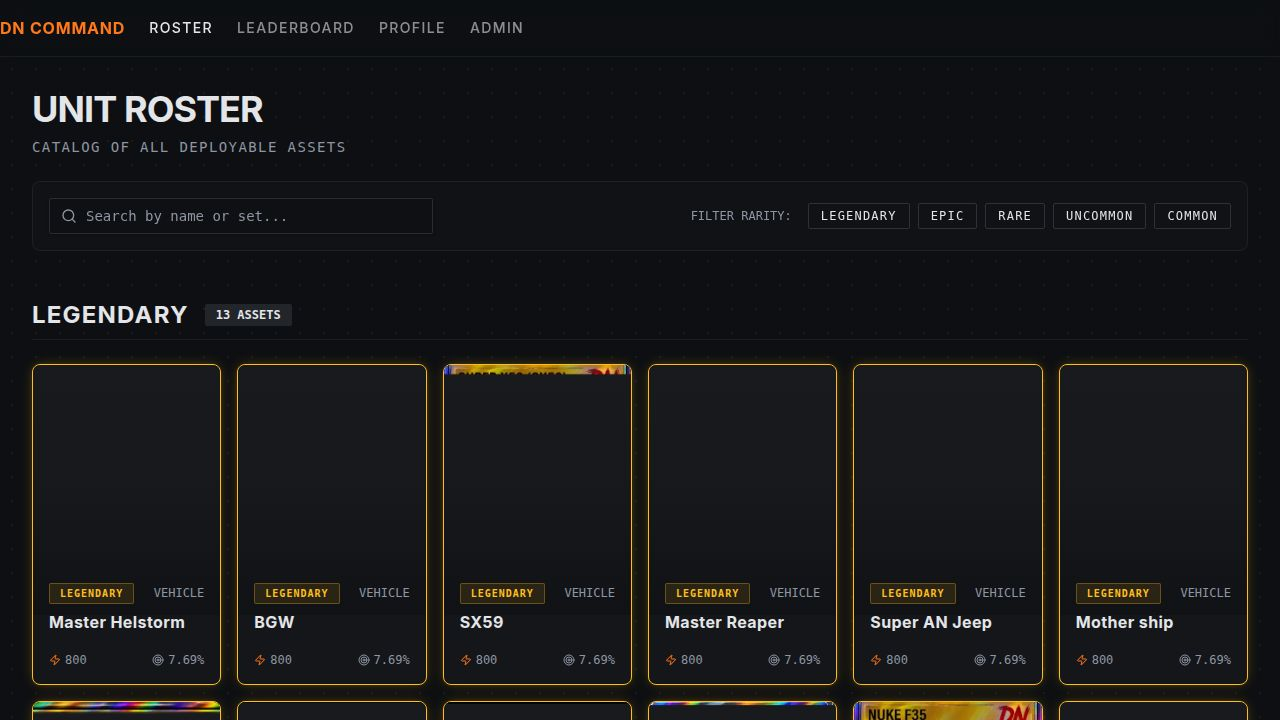
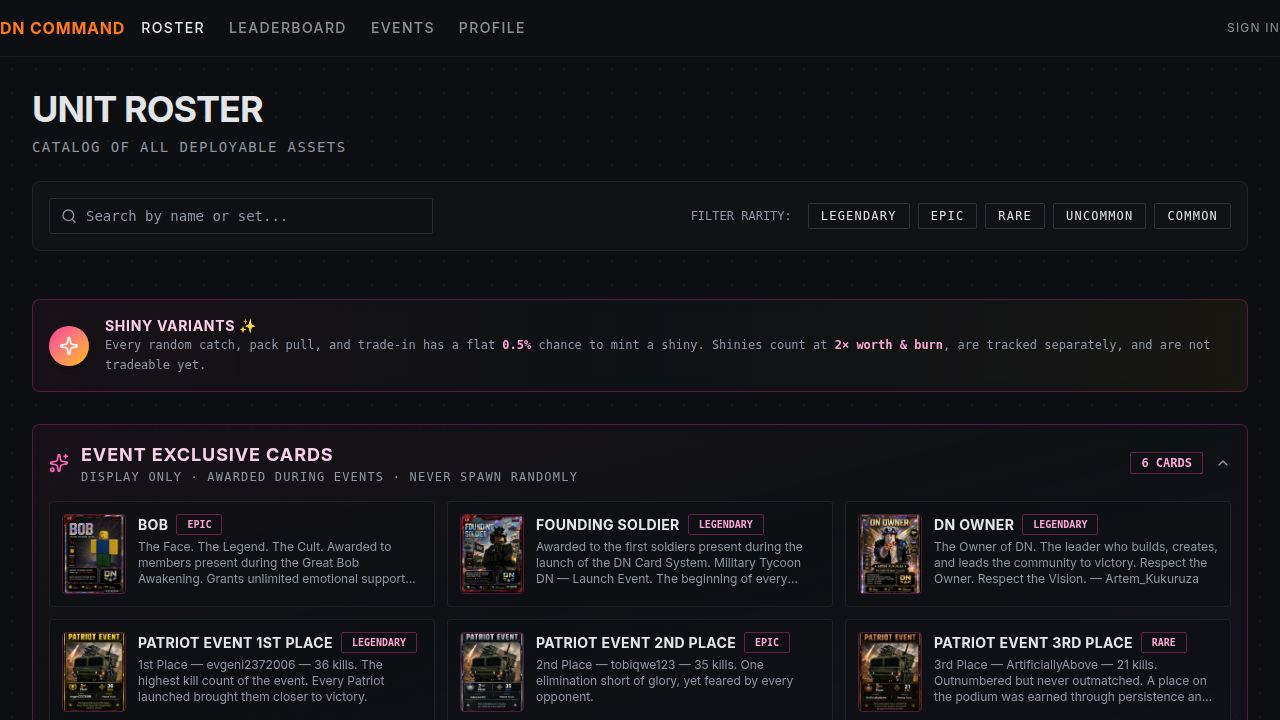
Add a dedicated page to showcase event cards and their details
Integrates a new `/events` route and `Events` page component, adding navigation links in `layout.tsx` and `App.tsx`. The `events.tsx` file introduces components for displaying event cards with rarity-based styling, detail popups, and a special podium layout for top placements.

Replit-Commit-Author: Agent
Replit-Commit-Session-Id: e307e65c-592e-453e-9cbe-cb89dff20171
Replit-Commit-Checkpoint-Type: full_checkpoint
Replit-Commit-Event-Id: 9393fd1e-eb54-4350-bba3-a9c169e8ca7e
Replit-Commit-Screenshot-Url: https://storage.googleapis.com/screenshot-production-us-central1/c561a2fd-6d8e-4845-9d37-375347cae09a/e307e65c-592e-453e-9cbe-cb89dff20171/snh6F7M
Replit-Helium-Checkpoint-Created: true

diff --git a/artifacts/dashboard/src/pages/events.tsx b/artifacts/dashboard/src/pages/events.tsx
@@ -1,0 +1,363 @@
+import { useMemo, useState } from "react";
+import { useCards, Card } from "@/hooks/queries";
+import { resolveImageUrl } from "@/lib/api";
+import { Badge } from "@/components/ui/badge";
+import { Dialog, DialogContent } from "@/components/ui/dialog";
+import { Loader2, Sparkles, Trophy, Shield, Star } from "lucide-react";
+import { motion } from "framer-motion";
+
+const RARITY_GLOW: Record<string, string> = {
+  legendary: "shadow-[0_0_32px_4px_rgba(234,179,8,0.35)] border-yellow-500/60",
+  epic:      "shadow-[0_0_24px_2px_rgba(168,85,247,0.35)] border-purple-500/60",
+  rare:      "shadow-[0_0_16px_2px_rgba(59,130,246,0.30)] border-blue-500/60",
+  uncommon:  "shadow-[0_0_8px_1px_rgba(34,197,94,0.20)] border-green-500/40",
+  common:    "border-border/50",
+};
+
+const RARITY_BADGE: Record<string, string> = {
+  legendary: "border-yellow-500/50 text-yellow-400 bg-yellow-500/10",
+  epic:      "border-purple-500/50 text-purple-400 bg-purple-500/10",
+  rare:      "border-blue-500/50 text-blue-400 bg-blue-500/10",
+  uncommon:  "border-green-500/50 text-green-400 bg-green-500/10",
+  common:    "border-border text-muted-foreground",
+};
+
+const PLACE_STYLES: Record<number, { border: string; glow: string; label: string; icon: React.ReactNode }> = {
+  1: {
+    border: "border-yellow-400/80 shadow-[0_0_40px_8px_rgba(234,179,8,0.40)]",
+    glow: "from-yellow-500/20 via-transparent",
+    label: "1st Place",
+    icon: <Trophy className="h-5 w-5 text-yellow-400" />,
+  },
+  2: {
+    border: "border-slate-300/70 shadow-[0_0_30px_4px_rgba(148,163,184,0.30)]",
+    glow: "from-slate-400/15 via-transparent",
+    label: "2nd Place",
+    icon: <Shield className="h-5 w-5 text-slate-300" />,
+  },
+  3: {
+    border: "border-amber-700/70 shadow-[0_0_24px_2px_rgba(180,83,9,0.30)]",
+    glow: "from-amber-700/15 via-transparent",
+    label: "3rd Place",
+    icon: <Star className="h-5 w-5 text-amber-600" />,
+  },
+};
+
+function placeFromName(name: string): number | null {
+  if (/1st/i.test(name)) return 1;
+  if (/2nd/i.test(name)) return 2;
+  if (/3rd/i.test(name)) return 3;
+  return null;
+}
+
+function EventCardDetail({ card, open, onClose }: {
+  card: { id: number; name: string; description: string; rarity: string; cardType: string; imageUrl: string | null; flavor: string | null; worthValue: number; isLimitedEdition: boolean; totalMinted: number; maxCopies: number | null } | null;
+  open: boolean;
+  onClose: () => void;
+}) {
+  if (!card) return null;
+  const img = resolveImageUrl(card.imageUrl);
+  return (
+    <Dialog open={open} onOpenChange={v => !v && onClose()}>
+      <DialogContent className="max-w-lg p-0 overflow-hidden bg-card/95 backdrop-blur-md border-border/50">
+        <div className="flex flex-col">
+          {img && (
+            <div className="relative w-full aspect-[3/4] max-h-[60vh] bg-muted overflow-hidden">
+              <img src={img} alt={card.name} className="h-full w-full object-contain" />
+              <div className="absolute inset-0 bg-gradient-to-t from-background/80 via-transparent to-transparent" />
+              {card.isLimitedEdition && (
+                <div className="absolute top-3 left-3">
+                  <Badge className="bg-background/90 text-primary border-primary font-mono text-xs">
+                    LIMITED · {card.totalMinted}{card.maxCopies ? `/${card.maxCopies}` : ""} MINTED
+                  </Badge>
+                </div>
+              )}
+            </div>
+          )}
+          <div className="p-6 space-y-4">
+            <div className="flex items-center gap-2 flex-wrap">
+              <Badge variant="outline" className={`text-xs font-mono uppercase tracking-widest ${RARITY_BADGE[card.rarity]}`}>
+                {card.rarity}
+              </Badge>
+              <Badge variant="outline" className="text-xs font-mono uppercase tracking-widest">
+                {card.cardType}
+              </Badge>
+              <Badge variant="outline" className="text-xs font-mono uppercase tracking-widest border-destructive/50 text-destructive">
+                Event
+              </Badge>
+            </div>
+            <h2 className="text-2xl font-bold tracking-wider">{card.name}</h2>
+            {card.flavor ? (
+              <div className="border-l-2 border-primary/50 pl-4 py-1">
+                <p className="text-sm italic text-foreground/80 leading-relaxed">"{card.flavor}"</p>
+              </div>
+            ) : (
+              <p className="text-sm text-muted-foreground leading-relaxed">{card.description}</p>
+            )}
+            <div className="text-xs font-mono text-muted-foreground uppercase tracking-widest">
+              Worth: {card.worthValue.toLocaleString()} 💠
+            </div>
+          </div>
+        </div>
+      </DialogContent>
+    </Dialog>
+  );
+}
+
+export default function Events() {
+  const { data, isLoading, error } = useCards();
+  const [selected, setSelected] = useState<(typeof eventCards)[0] | null>(null);
+
+  const eventCards = useMemo(
+    () => (data?.cards ?? []).filter(c => c.isEventExclusive && !c.isArchived),
+    [data],
+  );
+
+  // Split into podium cards (1st/2nd/3rd) and general event cards
+  const podiumMap = useMemo(() => {
+    const map: Record<number, typeof eventCards[0]> = {};
+    for (const c of eventCards) {
+      const p = placeFromName(c.name);
+      if (p) map[p] = c;
+    }
+    return map;
+  }, [eventCards]);
+
+  const hasPodium = Object.keys(podiumMap).length > 0;
+  const nonPodiumCards = useMemo(
+    () => eventCards.filter(c => placeFromName(c.name) === null),
+    [eventCards],
+  );
+
+  if (isLoading) {
+    return (
+      <div className="flex h-[50vh] items-center justify-center">
+        <Loader2 className="h-8 w-8 animate-spin text-primary" />
+      </div>
+    );
+  }
+
+  if (error) {
+    return (
+      <div className="flex h-[50vh] flex-col items-center justify-center text-center">
+        <p className="text-destructive font-mono uppercase tracking-widest mb-2">Error loading event cards</p>
+      </div>
+    );
+  }
+
+  if (eventCards.length === 0) {
+    return (
+      <div className="container max-w-screen-2xl py-20 px-4 text-center">
+        <Sparkles className="h-12 w-12 text-muted-foreground mx-auto mb-4 opacity-40" />
+        <h1 className="text-3xl font-bold uppercase tracking-tight mb-2">No Event Cards Yet</h1>
+        <p className="text-muted-foreground font-mono text-sm">Event cards are awarded by admins during special events. Check back soon.</p>
+      </div>
+    );
+  }
+
+  return (
+    <div className="min-h-screen bg-background">
+      {/* Hero */}
+      <div className="relative overflow-hidden border-b border-border/40 bg-gradient-to-br from-background via-background to-purple-950/20">
+        <div className="absolute inset-0 bg-[radial-gradient(ellipse_at_top,rgba(168,85,247,0.08),transparent_60%)]" />
+        <div className="container max-w-screen-2xl px-4 py-16 relative">
+          <div className="flex items-center gap-3 mb-3">
+            <Sparkles className="h-7 w-7 text-purple-400" />
+            <span className="text-xs font-mono uppercase tracking-[0.3em] text-purple-400">Exclusive Collection</span>
+          </div>
+          <h1 className="text-5xl md:text-6xl font-black uppercase tracking-tight text-foreground mb-3">
+            Event Cards
+          </h1>
+          <p className="text-muted-foreground font-mono text-sm max-w-xl">
+            Awarded to members during special events and milestones. These cards never spawn randomly — they're earned.
+          </p>
+          <div className="mt-6 flex items-center gap-3">
+            <Badge variant="outline" className="border-purple-500/40 text-purple-300 font-mono text-sm px-4 py-1">
+              {eventCards.length} {eventCards.length === 1 ? "card" : "cards"}
+            </Badge>
+          </div>
+        </div>
+      </div>
+
+      <div className="container max-w-screen-2xl px-4 py-12 space-y-16">
+
+        {/* Podium section */}
+        {hasPodium && (
+          <section>
+            <div className="flex items-center gap-3 mb-8 border-b border-border/40 pb-3">
+              <Trophy className="h-5 w-5 text-yellow-400" />
+              <h2 className="text-xl font-bold uppercase tracking-wider">Event Leaderboard Cards</h2>
+            </div>
+            <div className="flex flex-col md:flex-row items-end justify-center gap-6">
+              {/* 2nd place — left, slightly shorter */}
+              {podiumMap[2] && (
+                <PodiumCard card={podiumMap[2]} place={2} onClick={() => setSelected(podiumMap[2])} />
+              )}
+              {/* 1st place — center, tallest */}
+              {podiumMap[1] && (
+                <PodiumCard card={podiumMap[1]} place={1} onClick={() => setSelected(podiumMap[1])} featured />
+              )}
+              {/* 3rd place — right, shortest */}
+              {podiumMap[3] && (
+                <PodiumCard card={podiumMap[3]} place={3} onClick={() => setSelected(podiumMap[3])} />
+              )}
+            </div>
+          </section>
+        )}
+
+        {/* General event cards */}
+        {nonPodiumCards.length > 0 && (
+          <section>
+            {hasPodium && (
+              <div className="flex items-center gap-3 mb-8 border-b border-border/40 pb-3">
+                <Sparkles className="h-5 w-5 text-purple-400" />
+                <h2 className="text-xl font-bold uppercase tracking-wider">Special Event Cards</h2>
+              </div>
+            )}
+            <div className="grid grid-cols-1 gap-8 sm:grid-cols-2 lg:grid-cols-3 xl:grid-cols-4">
+              {nonPodiumCards.map((card, idx) => (
+                <ShowcaseCard key={card.id} card={card} idx={idx} onClick={() => setSelected(card)} />
+              ))}
+            </div>
+          </section>
+        )}
+      </div>
+
+      <EventCardDetail
+        card={selected}
+        open={!!selected}
+        onClose={() => setSelected(null)}
+      />
+    </div>
+  );
+}
+
+function PodiumCard({
+  card, place, onClick, featured = false,
+}: {
+  card: Card;
+  place: number;
+  onClick: () => void;
+  featured?: boolean;
+}) {
+  const style = PLACE_STYLES[place] ?? PLACE_STYLES[3];
+  const img = resolveImageUrl(card.imageUrl);
+
+  return (
+    <motion.div
+      initial={{ opacity: 0, y: 30 }}
+      animate={{ opacity: 1, y: 0 }}
+      transition={{ delay: place === 1 ? 0 : place === 2 ? 0.1 : 0.2 }}
+      onClick={onClick}
+      className={`relative cursor-pointer rounded-2xl border-2 bg-card overflow-hidden transition-all duration-300 hover:-translate-y-2 hover:shadow-2xl ${style.border} ${featured ? "w-full md:w-72 md:-mb-0" : "w-full md:w-60 md:mb-8"}`}
+    >
+      <div className={`absolute inset-0 bg-gradient-to-b ${style.glow} to-transparent opacity-60 pointer-events-none`} />
+
+      {/* Place badge */}
+      <div className="absolute top-3 left-3 z-10 flex items-center gap-1.5 rounded-full bg-background/80 backdrop-blur px-3 py-1 border border-border/40">
+        {style.icon}
+        <span className="text-xs font-bold font-mono uppercase tracking-wider">{style.label}</span>
+      </div>
+
+      {/* Card image */}
+      <div className={`relative ${featured ? "aspect-[3/4]" : "aspect-[3/4]"} w-full bg-muted overflow-hidden`}>
+        {img ? (
+          <img src={img} alt={card.name} className="h-full w-full object-cover transition-transform duration-500 hover:scale-105" />
+        ) : (
+          <div className="flex h-full w-full items-center justify-center text-muted-foreground font-mono uppercase text-sm">
+            {card.name}
+          </div>
+        )}
+        <div className="absolute inset-0 bg-gradient-to-t from-background/90 via-background/10 to-transparent" />
+      </div>
+
+      {/* Info overlay */}
+      <div className="relative p-4 -mt-10 z-10">
+        <div className="flex items-center gap-2 mb-1 flex-wrap">
+          <Badge variant="outline" className={`text-[10px] font-mono uppercase tracking-widest ${RARITY_BADGE[card.rarity]}`}>
+            {card.rarity}
+          </Badge>
+          <Badge variant="outline" className="text-[10px] font-mono uppercase tracking-widest border-destructive/40 text-destructive">
+            Event
+          </Badge>
+        </div>
+        <h3 className="font-bold tracking-wide text-foreground leading-tight">{card.name}</h3>
+        {(card.flavor || card.description) && (
+          <p className="text-xs text-muted-foreground mt-2 line-clamp-2 leading-relaxed">
+            {card.flavor ? `"${card.flavor}"` : card.description}
+          </p>
+        )}
+        <div className="mt-3 text-xs font-mono text-muted-foreground">
+          {card.worthValue.toLocaleString()} 💠
+        </div>
+      </div>
+    </motion.div>
+  );
+}
+
+function ShowcaseCard({
+  card, idx, onClick,
+}: {
+  card: Card;
+  idx: number;
+  onClick: () => void;
+}) {
+  const img = resolveImageUrl(card.imageUrl);
+  const glow = RARITY_GLOW[card.rarity] ?? RARITY_GLOW.common;
+
+  return (
+    <motion.div
+      initial={{ opacity: 0, y: 24 }}
+      animate={{ opacity: 1, y: 0 }}
+      transition={{ delay: idx * 0.08 }}
+      onClick={onClick}
+      className={`group relative cursor-pointer rounded-2xl border-2 bg-card overflow-hidden transition-all duration-300 hover:-translate-y-2 ${glow}`}
+    >
+      {/* Card image — portrait fill */}
+      <div className="relative aspect-[3/4] w-full bg-muted overflow-hidden">
+        {img ? (
+          <img
+            src={img}
+            alt={card.name}
+            className="h-full w-full object-cover transition-transform duration-500 group-hover:scale-105"
+          />
+        ) : (
+          <div className="flex h-full w-full items-center justify-center p-6 text-center text-muted-foreground font-mono uppercase text-sm">
+            {card.name}
+          </div>
+        )}
+        <div className="absolute inset-0 bg-gradient-to-t from-background/95 via-background/20 to-transparent" />
+
+        {/* Badges */}
+        <div className="absolute top-3 left-3 flex flex-col gap-1">
+          {card.isLimitedEdition && (
+            <Badge variant="outline" className="bg-background/80 text-[10px] uppercase border-primary/50 text-primary font-mono backdrop-blur-sm">
+              LE {card.totalMinted}{card.maxCopies ? `/${card.maxCopies}` : ""}
+            </Badge>
+          )}
+          <Badge variant="outline" className="bg-background/80 text-[10px] uppercase border-destructive/50 text-destructive font-mono backdrop-blur-sm">
+            Event
+          </Badge>
+        </div>
+      </div>
+
+      {/* Info */}
+      <div className="relative p-5 -mt-14 z-10">
+        <div className="flex items-center gap-2 mb-2 flex-wrap">
+          <Badge variant="outline" className={`text-[10px] font-mono uppercase tracking-widest ${RARITY_BADGE[card.rarity]}`}>
+            {card.rarity}
+          </Badge>
+        </div>
+        <h3 className="text-base font-bold tracking-wide text-foreground leading-tight mb-2">{card.name}</h3>
+        {(card.flavor || card.description) && (
+          <p className="text-xs text-muted-foreground line-clamp-3 leading-relaxed">
+            {card.flavor ? <span className="italic">"{card.flavor}"</span> : card.description}
+          </p>
+        )}
+        <div className="mt-4 text-xs font-mono text-muted-foreground">
+          {card.worthValue.toLocaleString()} 💠
+        </div>
+      </div>
+    </motion.div>
+  );
+}

diff --git a/artifacts/dashboard/src/App.tsx b/artifacts/dashboard/src/App.tsx
@@ -12,6 +12,7 @@ import Login from "@/pages/login";
 import Setup from "@/pages/setup";
 import Users from "@/pages/users";
 import Embeds from "@/pages/embeds";
+import Events from "@/pages/events";
 import NotFound from "@/pages/not-found";
 
 const queryClient = new QueryClient({
@@ -28,6 +29,7 @@ function Router() {
     <Switch>
       <Route path="/" component={Home} />
       <Route path="/leaderboard" component={Leaderboard} />
+      <Route path="/events" component={Events} />
       <Route path="/profile" component={Profile} />
       <Route path="/login" component={Login} />
       <Route path="/setup/:token" component={Setup} />

diff --git a/artifacts/dashboard/src/components/layout.tsx b/artifacts/dashboard/src/components/layout.tsx
@@ -8,6 +8,7 @@ export function Nav() {
   const links: { href: string; label: string; show: boolean }[] = [
     { href: "/", label: "Roster", show: true },
     { href: "/leaderboard", label: "Leaderboard", show: true },
+    { href: "/events", label: "Events", show: true },
     { href: "/profile", label: "Profile", show: true },
     { href: "/admin", label: "Admin", show: !!user },
     { href: "/admin/embeds", label: "Embeds", show: !!user },
